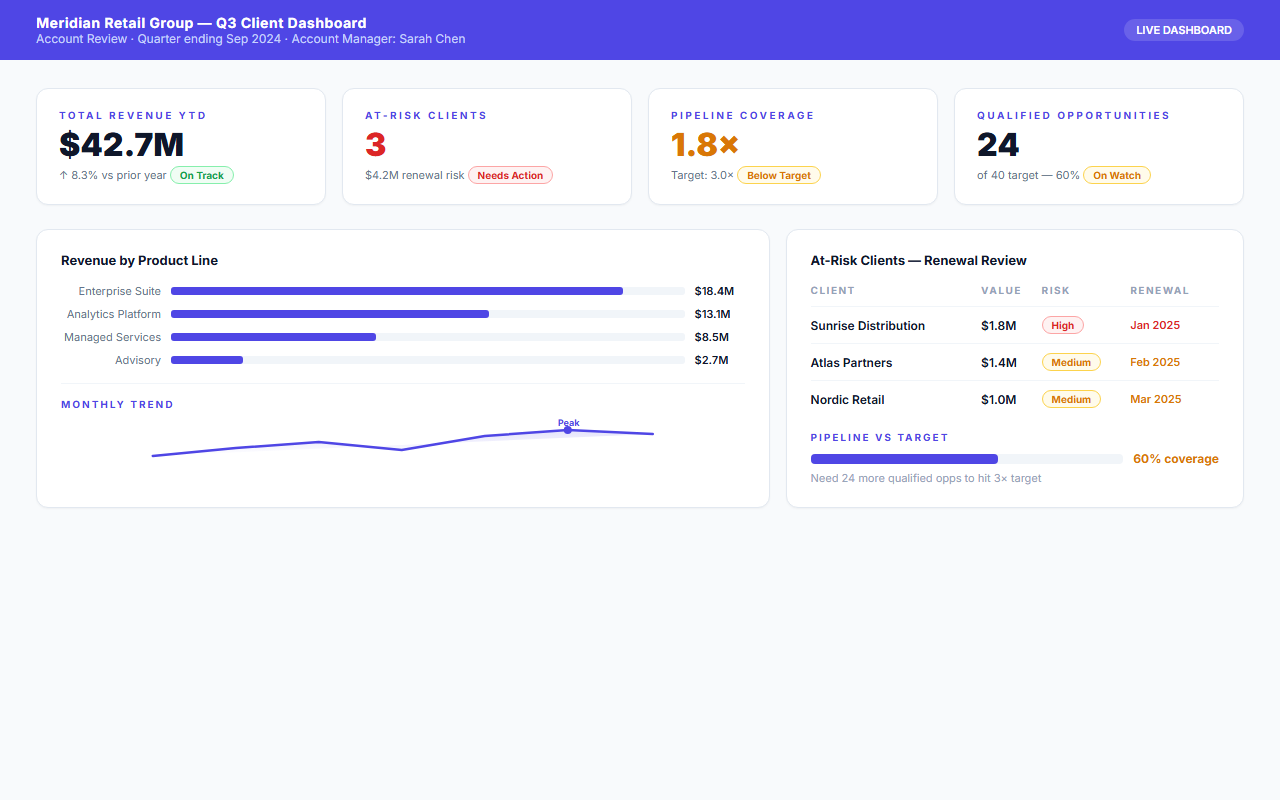
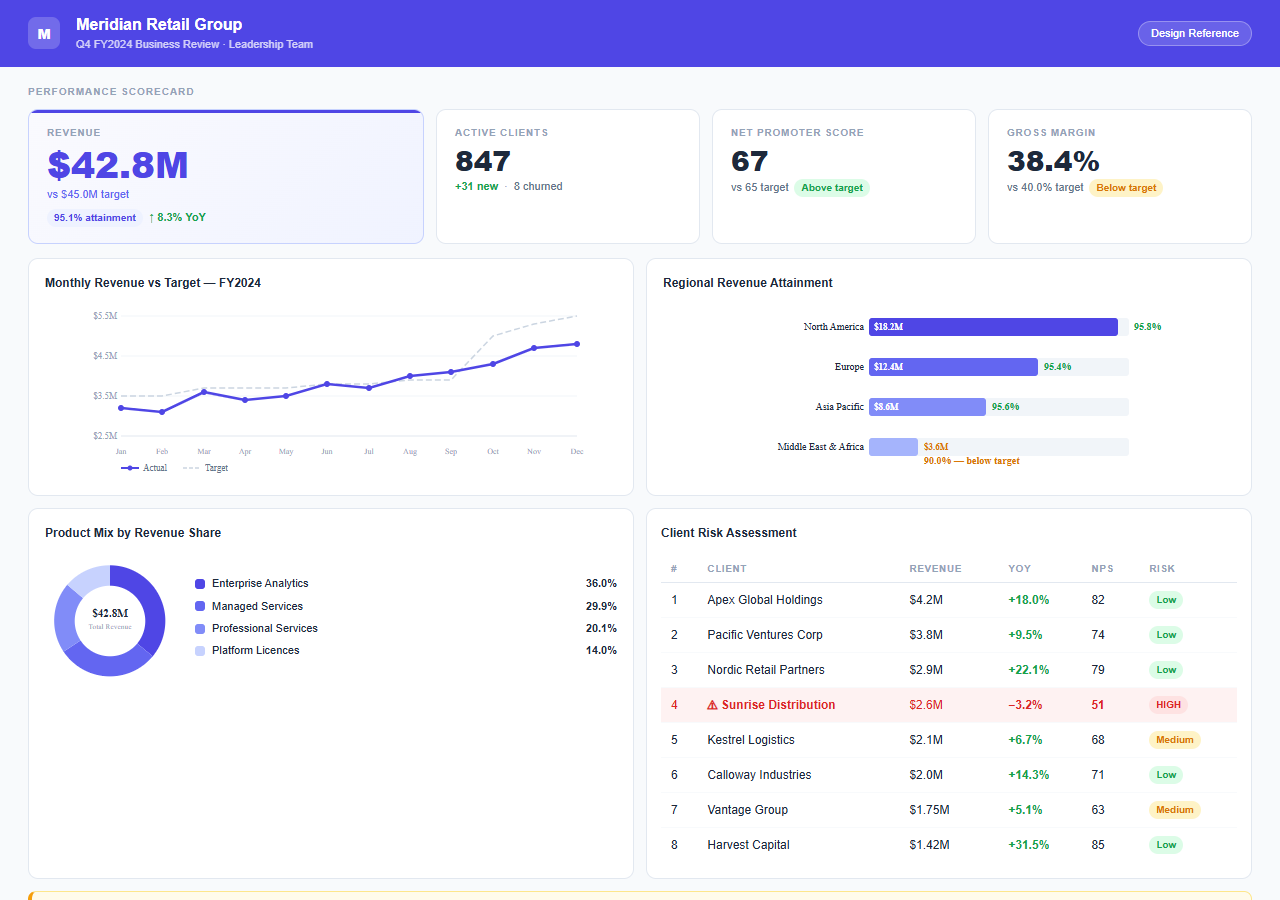
Rebuild Activity 01 on 3-phase Brief/Craft/Build structure
Replaces the 4-phase Stack/Craft/Validate/Build workflow with a
3-phase approach where the AI reads all data values from the
attached JSON file; participants fill in the 5 narrative elements
only a human can provide (audience context, quarter story, hero
metric, alert action).

- brief.md: scenario + 4 design rules + 3 data questions
- web_research.md (Craft): prompt template with 5 narrative
  placeholders; pre-specified animation block non-negotiable
- file_analysis.md (Build): fire steps, 5 done criteria, reveal
- complete_prompt.md: facilitator reference with example answers
- config.json: phases 4→3, updated learning objectives
- screenshot_2.png: new high-quality design reference mockup
- page.tsx: PHASES array updated to Brief/Craft/Build (3 steps)

diff --git a/src/app/activities/page.tsx b/src/app/activities/page.tsx
@@ -2,10 +2,9 @@ import { getActivities } from "@/lib/activities";
 import { ActivityGrid } from "@/components/ActivityGrid";
 
 const PHASES = [
-  { name: "Stack", time: "~5 min", label: "Pick your CDN toolkit" },
-  { name: "Craft", time: "~8 min", label: "Data-driven prompt" },
-  { name: "Validate", time: "~5 min", label: "Check in neutral AI" },
-  { name: "Build", time: "~12 min", label: "Fire, iterate, ship" },
+  { name: "Brief", time: "~5 min", label: "Scenario + design standard" },
+  { name: "Craft", time: "~12 min", label: "Build the prompt" },
+  { name: "Build", time: "~13 min", label: "Fire, iterate, ship" },
 ];
 
 export default async function ActivitiesPage() {
@@ -40,7 +39,7 @@ export default async function ActivitiesPage() {
         </h1>
         <p className="mt-3 max-w-[680px] text-text-secondary">
           Each activity gives you a real business scenario and a data file.
-          Work through four phases using any AI tool to build a client-ready interactive dashboard — no installation, no server, just a single HTML file — in 30 minutes.
+          Work through three phases using any AI tool to build a client-ready interactive dashboard — no installation, no server, just a single HTML file — in 30 minutes.
         </p>
       </div>
 

diff --git a/activities/activity_01_client_dashboard/web_research.md b/activities/activity_01_client_dashboard/web_research.md
@@ -1,41 +1,83 @@
 # Craft
-> Your placeholders are filled. Now deepen the prompt — add the specific insights that turn a data report into a recommendation.
-
-## scenario
-
-You have a filled prompt from Stack. It has the right numbers. Now it needs the right emphasis.
-
-A QBR dashboard is not a data report. The leadership team needs to know what to act on. That means the prompt must tell the AI which numbers matter most, which signals are risks, and what the story of the quarter is — not just what the numbers are.
-
-This phase adds three layers to your prompt before you fire it.
+> Build the prompt. Five blanks to fill — all require business judgment, not data lookup. The AI reads the numbers from the file. You provide the context only a human can.
 
 ## context
 
-Look at your filled prompt from Stack. Find these three gaps and add the missing instructions now.
+Your prompt template is below. When you fire it, attach `q4_performance_data.json` to the conversation — the AI will read every figure, calculation, and client detail directly from the file.
 
-**Gap 1 — Emphasis.** The revenue tile should visually stand out as the headline metric. Add this line to your HEADLINE SCORECARD section:
+What you supply are the five things the AI cannot get from a spreadsheet: who is in the room, what story the data tells, which number deserves to dominate, and what action the at-risk client requires. These blanks require judgment, not lookup.
 
-`Make the Revenue tile the visual hero — larger number, bolder treatment than the other three tiles.`
-
-**Gap 2 — Risk narrative.** A red badge on a table row is not enough. The leadership team needs context, not just a flag. Add this line after your client risk table instruction:
-
-`Below the client table, add a single-line alert callout: "Action required: [AT_RISK_CLIENT] shows [YOY_GROWTH]% YoY decline and High renewal risk. Recommend executive review before Q1 close." Use amber background, dark text.`
-
-**Gap 3 — Pipeline confidence framing.** Coverage of [COVERAGE]x is a positive signal — the prompt should frame it that way. Update your PIPELINE line to read:
-
-`Display pipeline coverage as a confidence indicator — green badge if above 1.0x. Add a label: "Healthy coverage — Q1 target is funded."`
+Each `[PLACEHOLDER → description]` tells you what to write and what kind of thinking it requires. The CDN block and animation block are pre-filled — do not change those lines.
 
 ## do_this
 
-Add all three gaps to your prompt. The result should be 200–250 words total.
+Read the five placeholders. Write your answers directly into the prompt. When every blank is filled and the CDN and animation blocks are unchanged, you are ready to fire.
 
-Read the completed prompt once before moving to Validate. If you can point to every element in the prompt and say where it came from in the data file, you are ready.
+## prompt
+
+Build a single-file HTML QBR dashboard for Meridian Retail Group.
+
+AUDIENCE:
+[WHO_IS_IN_THE_ROOM → one sentence: who is presenting this, to whom, and what decision does the room need to make after this meeting?]
+
+DATA: Attach q4_performance_data.json to this conversation. Read all values, ratios, and client details directly from the file — do not ask me for numbers, do not hardcode values.
+
+DESIGN KIT — do not change these lines:
+<link href="https://fonts.googleapis.com/css2?family=Inter:wght@400;500;600;700;800&display=swap" rel="stylesheet">
+<script src="https://cdn.tailwindcss.com"></script>
+<script defer src="https://cdn.jsdelivr.net/npm/alpinejs@3.14.1/dist/cdn.min.js"></script>
+<script src="https://cdn.jsdelivr.net/npm/apexcharts@3.54.0/dist/apexcharts.min.js"></script>
+
+DESIGN: Inter font. Primary #4F46E5. Background #F8FAFC. White card surfaces. Text #1E293B.
+Match the layout and visual treatment shown in screenshot_1.png and screenshot_2.png exactly.
+
+THE STORY OF THIS QUARTER:
+[QUARTER_STORY → 2 sentences. What happened this quarter? What went well, what fell short, and what needs immediate attention? Write this after reading the data file — this frames how the AI will emphasise and label the data.]
+
+HERO METRIC:
+[HERO_RATIONALE → Which scorecard tile should visually dominate — larger number, bolder treatment, indigo accent? Name it and explain in one sentence why it matters most to the specific audience above.]
+
+SCORECARD — 4 tiles at the top of the page:
+Tile 1 — Revenue: actual vs target, attainment %, YoY growth. Apply hero treatment per HERO METRIC above.
+Tile 2 — Active Clients: total active, new this quarter, churned this quarter.
+Tile 3 — NPS: actual score vs target.
+Tile 4 — Gross Margin: actual % vs target %.
+Read all values from the data file.
+
+CHARTS — all four required:
+1. Monthly revenue vs target — line chart, Jan–Dec, two series (Actual / Target). Source: monthly_revenue array.
+2. Regional revenue — horizontal bar chart, one bar per region, attainment % on each bar. Source: regions array.
+3. Product mix — donut chart by revenue share. Source: product_mix array.
+4. Client risk table — all clients. Columns: Rank | Client | Revenue | YoY Growth | NPS | Risk. Source: top_clients array. Flag the High-renewal-risk client with a red badge and red row highlight.
+
+ALERT CALLOUT:
+[ALERT_ACTION → Write the specific action statement for the at-risk client you found in the data. Name the client. State the risk in numbers — revenue figure, YoY decline %, NPS score. Say what action is needed and by when. This appears as an amber callout directly below the client table.]
+
+PIPELINE — stat row below the charts:
+Show qualified pipeline vs Q1 target, coverage ratio, and deals in final stage.
+Display a green confidence badge if coverage is above 1.0x.
+Read all values from the data file.
+
+ANIMATION — do not change or remove any of these:
+- Revenue tile: number counts up from 0 to actual on page load, 2s easeOut
+- NPS tile: counts up from 0, 1.5s easeOut
+- Pipeline coverage ratio: counts up from 0.00x to actual, 1.8s easeOut
+- Monthly line chart: draws left to right on load, 1200ms
+- Regional bars: stagger grow-in from base, 100ms offset between each bar
+- Product donut: sweeps in clockwise, 900ms
+- Scorecard tiles: cascade fade-in left to right, 120ms between each tile
+- Alert callout: slides in from the left, 350ms after page load
+- Table rows: stagger fade-in, 60ms between rows
+- Charts and table sections: fade up when scrolled into view
+
+INTERACTIVITY: Alpine.js region filter — All / North America / Europe / Asia Pacific / Middle East & Africa. Clicking a region filters the client risk table to that region's clients.
+
+One complete self-contained HTML file. All data from the attached JSON file — no hardcoded numbers, no fetch calls.
 
 ## checkpoint
 
-Before moving to Validate:
-- Emphasis instruction added to HEADLINE SCORECARD
-- Risk narrative added with the action callout (not just a flag)
-- Pipeline confidence framing updated
-- Prompt is 200–250 words
-- Every number in the prompt traces back to the data file
+Before firing:
+- All five narrative blanks filled with your own words
+- CDN block and animation block are unchanged
+- You have named the at-risk client in your ALERT_ACTION with specific numbers
+- q4_performance_data.json is ready to attach when you open your AI tool

diff --git a/activities/activity_01_client_dashboard/brief.md b/activities/activity_01_client_dashboard/brief.md
@@ -1,5 +1,5 @@
-# Stack
-> Read the brief. Review the design standard. Fill in the prompt placeholders. Exit in 5 minutes with a complete, ready-to-fire prompt.
+# Brief
+> Get oriented in 5 minutes. Read the scenario. Review the design references. Skim the data file.
 
 ## scenario
 
@@ -7,66 +7,35 @@
 **Deliverable:** Single-file interactive HTML QBR dashboard
 **Audience:** Leadership team — quarterly business review, tomorrow
 **Your data file:** `q4_performance_data.json`
-**Design reference:** `screenshot_1.png` and `screenshot_2.png` in your folder
-
-You are not building anything in this phase. You are setting up: reviewing what you have, understanding the quality bar, and filling in the prompt template below.
+**Design references:** `screenshot_1.png` and `screenshot_2.png` in this folder
 
 ## context
 
-Open `screenshot_1.png` and `screenshot_2.png` from your folder. **Treat these like a Figma handoff** — in professional practice, a designer builds the visual first, then hands it to the developer (or AI) and says "build this." That is exactly what you are doing now. Your final dashboard must match this quality before sharing with a client.
+Open `screenshot_1.png` and `screenshot_2.png`. These are your design references — treat them like a Figma handoff. A designer built this visual standard; your job is to instruct an AI to match it. Your final dashboard must meet this quality before presenting to any client.
 
-Four non-negotiable rules extracted from the standard:
+Four non-negotiable rules extracted from the design standard:
 
-**1. Color** — Primary `#4F46E5` for headlines, tiles, and chart accents. `#F8FAFC` page background. White card surfaces. `#64748B` body text. No other color choices unless specified.
+**1. Color** — Primary `#4F46E5` (indigo) for headlines, tiles, and chart accents. `#F8FAFC` page background. White card surfaces. These are not suggestions.
 
-**2. Typography** — Inter font throughout (already in the prompt below). `font-weight: 800` for headline numbers. `font-weight: 500` for card labels and titles. `font-weight: 400` for descriptions. One font, three weights.
+**2. Typography** — Inter font. `font-weight: 800` for the revenue headline number — the number that matters most in this room. `font-weight: 600` for tile labels and section titles. `font-weight: 400` for body text. One font, three weights.
 
-**3. Layout** — Scorecard tiles visible at the top without scrolling. Charts in a 2-column grid below. Client table at the bottom. No horizontal scroll at any screen width.
+**3. Layout** — Scorecard visible above the fold. 2-column chart grid below. Client table below that. No horizontal scroll at any screen width.
 
-**4. Interactivity** — At least one working interactive element: a region selector, a chart toggle, or a risk filter. A static page saved as HTML is not the deliverable.
+**4. Interactivity** — A live region filter using Alpine.js. A static HTML page is not the deliverable.
 
 ## do_this
 
-Open `q4_performance_data.json`. Read it for 3 minutes.
-
-Find each `[PLACEHOLDER]` in the sample prompt below and replace it with the real value from the data file. Each placeholder tells you exactly which field to look in. Do not change the STACK block, the DESIGN line, or the chart structure — only fill in the placeholders.
-
-## prompt
-
-Build a single-file HTML QBR dashboard for [CLIENT_NAME → `company` field in q4_performance_data.json].
-
-STACK — do not change these:
-<link href="https://fonts.googleapis.com/css2?family=Inter:wght@400;500;600;700;800&display=swap" rel="stylesheet">
-<script src="https://cdn.tailwindcss.com"></script>
-<script defer src="https://cdn.jsdelivr.net/npm/alpinejs@3.14.1/dist/cdn.min.js"></script>
-<script src="https://cdn.jsdelivr.net/npm/apexcharts@3.54.0/dist/apexcharts.min.js"></script>
-
-DESIGN: Inter font. Primary #4F46E5. Background #F8FAFC. White card surfaces. Text #1E293B. Refer to screenshot_1.png and screenshot_2.png for layout and visual standard.
-
-AUDIENCE: [AUDIENCE → `prepared_for` field]
-
-HEADLINE SCORECARD — 4 tiles across the top:
-- Revenue: [ACTUAL_REVENUE → `summary.total_revenue`] actual vs [TARGET_REVENUE → `summary.revenue_target`] target — [ATTAINMENT → `summary.revenue_attainment_pct`]% attainment, +[YOY → `summary.yoy_growth_pct`]% YoY
-- Active clients: [TOTAL_CLIENTS → `summary.total_active_clients`] total, [NEW_CLIENTS → `summary.new_clients_q4`] new this quarter, [CHURNED → `summary.churned_clients_q4`] churned
-- NPS: [NPS_ACTUAL → `summary.net_promoter_score`] actual vs [NPS_TARGET → `summary.nps_target`] target
-- Gross margin: [MARGIN_ACTUAL → `summary.gross_margin_pct`]% actual vs [MARGIN_TARGET → `summary.gross_margin_target_pct`]% target
-
-CHARTS — render all four:
-1. Monthly revenue vs target — line chart, 12 months Jan–Dec, two series (Actual / Target). Use the `monthly_revenue` array.
-2. Regional revenue — horizontal bar chart, [REGION_COUNT → count the `regions` array] regions, show attainment % on each bar.
-3. Product mix — donut chart, [PRODUCT_COUNT → count the `products` array] products by revenue share.
-4. Client risk table — columns: Rank, Client, Revenue, YoY Growth, NPS, Renewal Risk. Flag [AT_RISK_CLIENT → find the client where `renewal_risk` = "High"] with a red badge. All other clients show green.
-
-PIPELINE — one stat row below the charts:
-Q1 FY2025: [PIPELINE_QUALIFIED → `pipeline.total_qualified_pipeline`] qualified vs [PIPELINE_TARGET → `pipeline.target`] target = [COVERAGE → calculate qualified ÷ target, round to 2 decimals]x coverage.
-
-All chart data inline as JS objects — no fetch calls, no external data files. One complete self-contained .html file.
+1. Open `screenshot_1.png` — this shows the design system: colors, typography, and tile component patterns
+2. Open `screenshot_2.png` — this shows the target dashboard layout for this activity
+3. Open `q4_performance_data.json` — read it for 3 minutes
+4. Answer these three questions before moving to Craft:
+   - What is the revenue attainment percentage?
+   - Which client has High renewal risk, and what are their YoY growth and NPS?
+   - What is the pipeline coverage ratio?
 
 ## checkpoint
 
-Before moving to Craft, confirm:
-- Every [PLACEHOLDER] replaced with a real value from the data file
-- STACK block is unchanged
-- Design colors are unchanged
-- You have named the at-risk client
-- The prompt references screenshot_1.png and screenshot_2.png for visual guidance
+Before moving to Craft:
+- You know the client, the deliverable, and who is in the room
+- You have opened and reviewed both screenshots — you know the visual bar
+- You can answer all three data questions above without opening the file again

diff --git a/activities/activity_01_client_dashboard/file_analysis.md b/activities/activity_01_client_dashboard/file_analysis.md
@@ -1,35 +1,59 @@
-# Validate
-> Paste your prompt into a neutral AI. Ask it to find gaps — not build. 5 minutes here saves 15 minutes of iteration later.
+# Build
+> Fire. Open in browser. Watch the animations. Iterate once. Ship.
 
 ## scenario
 
-You have a complete, deepened prompt. Before firing it in Claude, run it through a neutral AI — Gemini, Microsoft Copilot, or ChatGPT — and ask it to review the prompt, not build from it.
+Your prompt is ready. Open your AI tool in a new tab — Claude.ai, Copilot, Cursor, or whichever you are using. Keep this platform tab open alongside it. You have 13 minutes.
 
-A neutral AI catches what you cannot see: unfilled placeholders, ambiguous instructions, design conflicts, or chart specifications that will confuse the build AI.
+Target: a working, animated dashboard in the browser within 10 minutes. Use any remaining time to iterate.
 
 ## do_this
 
-1. Open Gemini (or Copilot) in a new tab — not Claude
-2. Paste your full prompt
-3. Add this review instruction at the very top before your prompt text:
+**Step 1 — Fire:**
+1. Open Claude.ai (or your AI tool) in a new tab
+2. Attach `q4_performance_data.json` to the conversation
+3. Paste your filled prompt
+4. When the AI responds, copy the full HTML code block
 
----
-Review the following dashboard build prompt. Do not build anything. Identify:
-1. Any [PLACEHOLDER] I forgot to replace with a real value
-2. Any instruction that is ambiguous or could be interpreted two ways
-3. Any information the AI would need to guess because I left it out
-4. One specific improvement to make the design instruction clearer
+**Step 2 — Open in browser:**
+5. Save the HTML as `meridian_qbr.html` on your desktop
+6. Double-click to open in Chrome or Edge
+7. Watch: revenue should count up, charts should animate in, the alert callout should slide in after a brief delay
+8. Compare against `screenshot_2.png` — does the visual quality match?
 
-[PASTE YOUR FULL PROMPT HERE]
----
+**Step 3 — One targeted iteration:**
+9. Identify the single most important gap between your output and `screenshot_2.png`
+10. Write one clear follow-up instruction that fixes only that gap — be specific about what you want changed
+11. Fire it in the same conversation — do not start a new chat (context from the first build matters)
 
-4. Read the review. Apply any fix that takes under 60 seconds.
-5. One pass only — do not iterate endlessly here.
+**If time permits — further refinements:**
+Ask Claude to add hover states to the client table rows, animate the regional filter transition, or add a print button that removes animations for PDF export.
 
 ## checkpoint
 
-Before moving to Build:
-- Prompt reviewed by a neutral AI (Gemini or Copilot — not Claude)
-- Any unfilled [PLACEHOLDER] items are corrected
-- One improvement applied, or confirmed none needed
-- Full prompt is copied and ready to paste in Claude
+Done — confirm all five before presenting:
+- Revenue tile counts up on page load and is visually larger and bolder than the other three tiles
+- Sunrise Distribution shows a red badge and red row highlight, visible without scrolling
+- Alert callout appears below the client table in amber with specific numbers and an action by-when date
+- Pipeline section shows a green confidence badge and the coverage ratio animated in on load
+- File opens in a browser with no errors and all four charts render with their entrance animations
+
+## reveal_good
+
+**What strong output looks like:**
+
+When the presenter opens the page, the revenue number counting up from $0 to $42.8M in two seconds does something a PowerPoint slide cannot — it makes the room wait for the number. That is the opening this QBR deserves.
+
+The regional bar chart staggering in from left to right gives the presenter a natural pause before each region, turning a chart into a live walkthrough.
+
+Sunrise Distribution's red badge pulsing — not static — signals urgency that the eye catches even while reading a different row. The amber callout that slides in after the page settles lands as a recommendation, not just a flag: a named client, a number, an action, a date.
+
+The 1.28× pipeline coverage counting up is the close. It answers the unspoken question — "are we funded for Q1?" — before anyone asks.
+
+## reveal_takeaway
+
+The difference between a mediocre dashboard and a remarkable one is not the template or the library. It is the five sentences you wrote in Craft.
+
+Every participant in this room built from the same data file. Only yours has the right story framing, the right hero metric, and the right action statement — because those came from you, not the spreadsheet. The AI handled the execution. You handled the judgment.
+
+That division of labour is what professional vibe coding looks like. It scales to any dataset, any deliverable, any audience — because the judgment always belongs to you.

diff --git a/activities/activity_01_client_dashboard/complete_prompt.md b/activities/activity_01_client_dashboard/complete_prompt.md
@@ -1,0 +1,66 @@
+# Complete Prompt — Meridian Retail Group QBR Dashboard
+> Facilitator reference. All narrative placeholders filled with example answers.
+> Fire-ready: attach q4_performance_data.json and paste as-is to test or demo.
+> This file is not shown in the platform — it is for facilitator use only.
+
+---
+
+Build a single-file HTML QBR dashboard for Meridian Retail Group.
+
+AUDIENCE:
+The CRO is presenting Q4 FY2024 results to the CEO, CFO, and four regional VPs. The room needs to leave with three decisions: whether Q4 constitutes a win despite falling $2.2M short of target, what will be done differently in MEA in Q1, and who owns the Sunrise Distribution renewal before January 31st.
+
+DATA: Attach q4_performance_data.json to this conversation. Read all values, ratios, and client details directly from the file — do not ask me for numbers, do not hardcode values.
+
+DESIGN KIT — do not change these lines:
+<link href="https://fonts.googleapis.com/css2?family=Inter:wght@400;500;600;700;800&display=swap" rel="stylesheet">
+<script src="https://cdn.tailwindcss.com"></script>
+<script defer src="https://cdn.jsdelivr.net/npm/alpinejs@3.14.1/dist/cdn.min.js"></script>
+<script src="https://cdn.jsdelivr.net/npm/apexcharts@3.54.0/dist/apexcharts.min.js"></script>
+
+DESIGN: Inter font. Primary #4F46E5. Background #F8FAFC. White card surfaces. Text #1E293B.
+Match the layout and visual treatment shown in screenshot_1.png and screenshot_2.png exactly.
+
+THE STORY OF THIS QUARTER:
+Q4 FY2024 came in at 95.1% attainment — $42.8M against a $45M target, with 8.3% YoY growth confirming the business is still accelerating. MEA underperformed at 90% attainment and one Enterprise client is in active revenue decline with High renewal risk heading into Q1; both issues need immediate owner accountability.
+
+HERO METRIC:
+Revenue — the CRO's credibility with the CEO in this room depends on this number. The revenue tile must be visually dominant: larger number, font-weight 800, indigo accent, and physically wider than the other three tiles so it draws the eye before anyone speaks.
+
+SCORECARD — 4 tiles at the top of the page:
+Tile 1 — Revenue: actual vs target, attainment %, YoY growth. Apply hero treatment per HERO METRIC above.
+Tile 2 — Active Clients: total active, new this quarter, churned this quarter.
+Tile 3 — NPS: actual score vs target.
+Tile 4 — Gross Margin: actual % vs target %.
+Read all values from the data file.
+
+CHARTS — all four required:
+1. Monthly revenue vs target — line chart, Jan–Dec, two series (Actual / Target). Source: monthly_revenue array.
+2. Regional revenue — horizontal bar chart, one bar per region, attainment % on each bar. Source: regions array.
+3. Product mix — donut chart by revenue share. Source: product_mix array.
+4. Client risk table — all clients. Columns: Rank | Client | Revenue | YoY Growth | NPS | Risk. Source: top_clients array. Flag the High-renewal-risk client with a red badge and red row highlight.
+
+ALERT CALLOUT:
+Sunrise Distribution — $2.6M Enterprise account, revenue down 3.2% YoY, NPS at 51 (14 points below the account portfolio average). High renewal risk. Action required: CRO to schedule executive business review before January 31st. Do not carry this unresolved into Q2.
+Display as an amber callout directly below the client table.
+
+PIPELINE — stat row below the charts:
+Show qualified pipeline vs Q1 target, coverage ratio, and deals in final stage.
+Display a green confidence badge if coverage is above 1.0x.
+Read all values from the data file.
+
+ANIMATION — do not change or remove any of these:
+- Revenue tile: number counts up from 0 to actual on page load, 2s easeOut
+- NPS tile: counts up from 0, 1.5s easeOut
+- Pipeline coverage ratio: counts up from 0.00x to actual, 1.8s easeOut
+- Monthly line chart: draws left to right on load, 1200ms
+- Regional bars: stagger grow-in from base, 100ms offset between each bar
+- Product donut: sweeps in clockwise, 900ms
+- Scorecard tiles: cascade fade-in left to right, 120ms between each tile
+- Alert callout: slides in from the left, 350ms after page load
+- Table rows: stagger fade-in, 60ms between rows
+- Charts and table sections: fade up when scrolled into view
+
+INTERACTIVITY: Alpine.js region filter — All / North America / Europe / Asia Pacific / Middle East & Africa. Clicking a region filters the client risk table to that region's clients.
+
+One complete self-contained HTML file. All data from the attached JSON file — no hardcoded numbers, no fetch calls.
